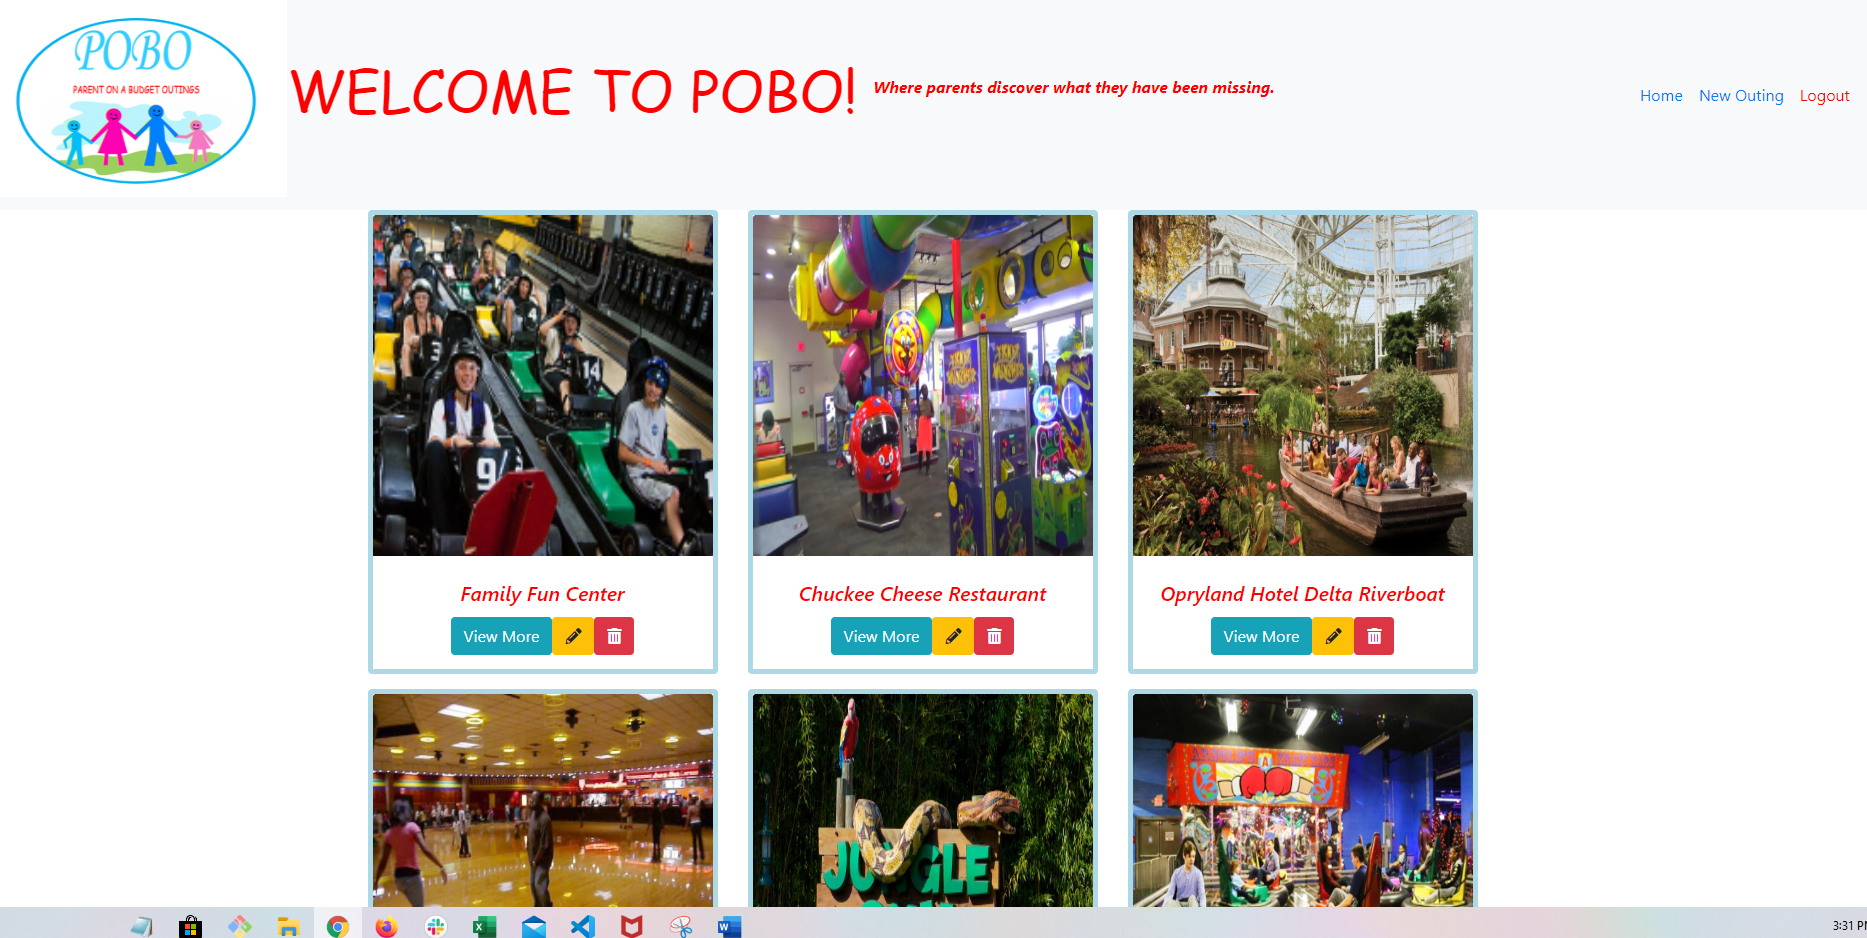
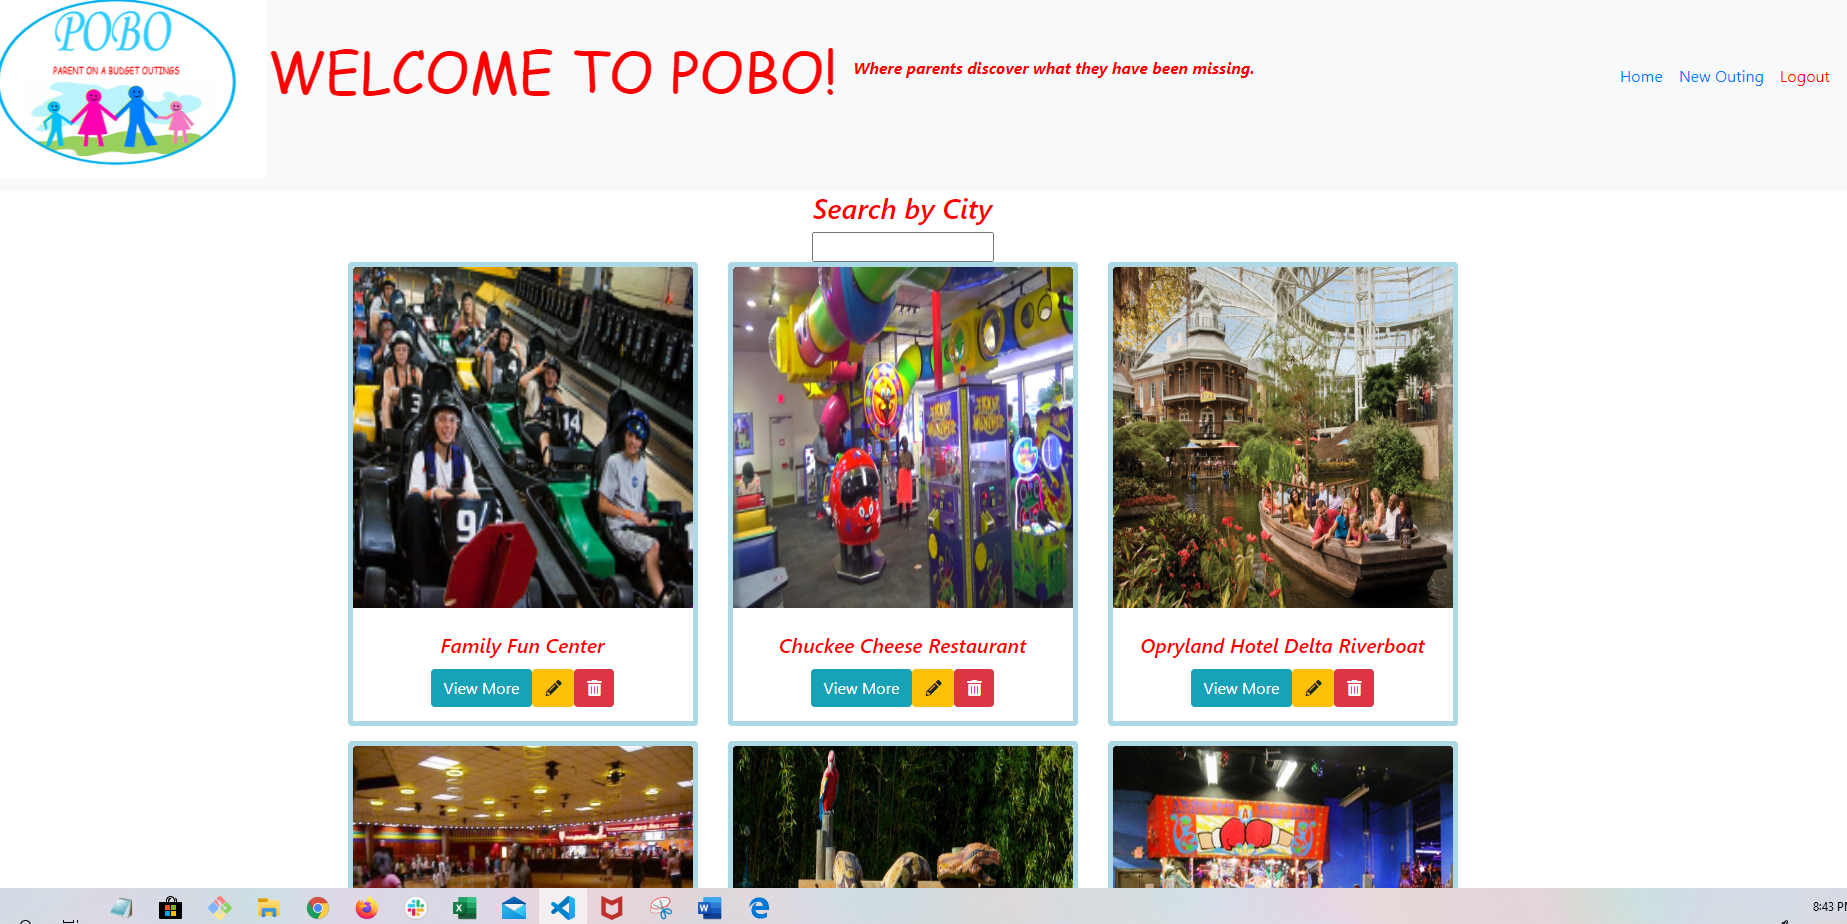
search and filter works

diff --git a/src/components/pages/Home/Home.js b/src/components/pages/Home/Home.js
@@ -10,6 +10,11 @@ import './Home.scss';
 class Home extends React.Component {
   state = {
     outings: [],
+    search: '',
+  }
+
+  updateSearch(event) {
+    this.setState({ search: event.target.value.substr(0, 20) });
   }
 
   getOutings = () => {
@@ -30,12 +35,24 @@ class Home extends React.Component {
   }
 
   render() {
-    const { outings } = this.state;
-    const buildOutingCards = outings.map((outing) => (
+    const filteredCity = this.state.outings.filter(
+      (outing) => {
+        return outing.city.indexOf(this.state.search) !== -1;
+      },
+    );
+    // const { outings } = this.state;
+    const buildOutingCards = filteredCity.map((outing) => (
       <OutingCard key={outing.id} outing={outing} removeOuting={this.removeOuting}/>
     ));
     return (
       <div className="Home">
+        <div className="citysearch">
+          <h3>Search by City</h3>
+          <input type="text"
+          value={this.state.search}
+          onChange={this.updateSearch.bind(this)}
+          />
+        </div>
         <div className= "d-flex flex-wrap">
           {buildOutingCards}
         </div>

diff --git a/src/components/pages/StarRating/StarRating.js b/src/components/pages/StarRating/StarRating.js
@@ -4,7 +4,7 @@ import { FaStar } from 'react-icons/fa';
 import './StarRating.scss';
 
 const StarRating = () => {
-  const [rating, setRating] = useState(null);
+  const [rating, setRating] = useState(3);
   // const [hover, setHover] = useState(null);
 
   return (

diff --git a/src/components/pages/Home/Home.scss b/src/components/pages/Home/Home.scss
@@ -1,3 +1,5 @@
 .Home {
   display: block;
   }
+
+  

diff --git a/README.md b/README.md
@@ -23,6 +23,8 @@ This project showcases the use of firebase and json data with REACT Routing. We 
 ![Main View](./screenshots/POBO5.PNG)
 ### EDIT OUTING
 ![Main View](./screenshots/POBO4.PNG)
+### Add A Review
+![Main View](./screenshots/POBO7.PNG)
 
 ## How to Run
 1. Clone down this repo
